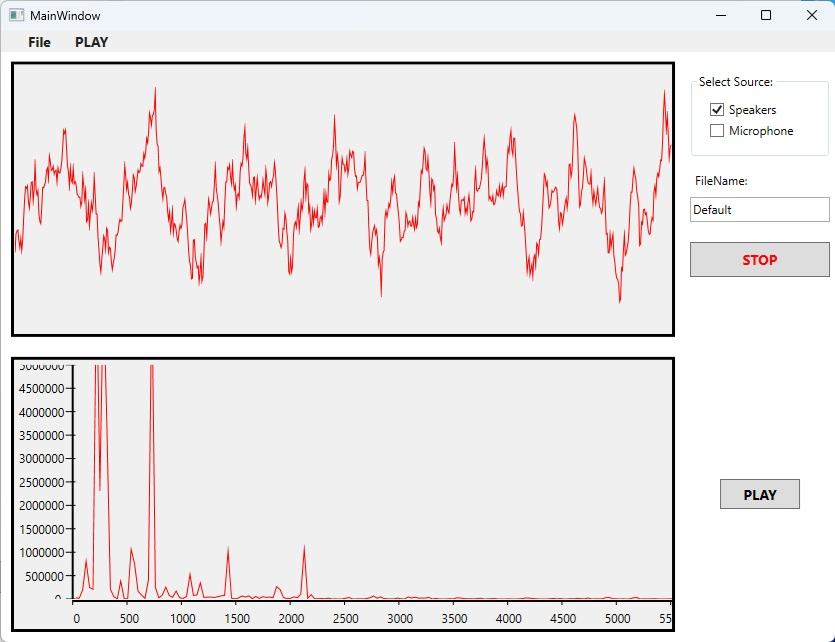
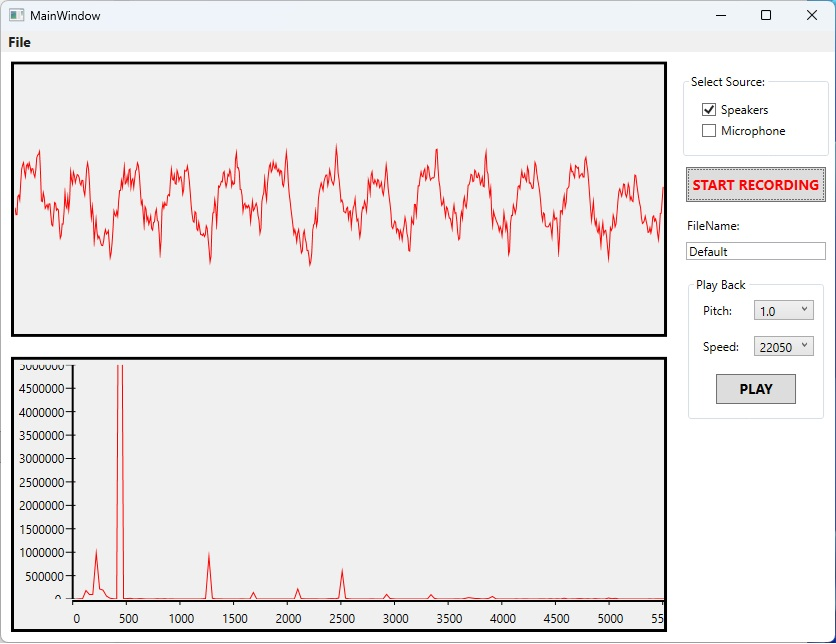
Updated Apps

diff --git a/Audio Spectrum/MainWindow.xaml b/Audio Spectrum/MainWindow.xaml
@@ -27,6 +27,8 @@
 
         <StackPanel Grid.Row="3" Orientation="Horizontal" HorizontalAlignment="Center">
             <Button Grid.Row="3" Margin="80,10,10,10" Width="80" FontSize="14" FontWeight="Bold" Name="btnPlay" Click="btnPlay_Click">START</Button>
+            <Label FontSize="12" VerticalContentAlignment="Center" Margin="100,10,10,10">Sensitivity</Label>
+            <Slider Margin="10" Width="150" Name="sldSensitivity" ValueChanged="sldSensitivity_ValueChanged" Minimum="1000000" Maximum="10000000" Value="5000000" VerticalAlignment="Center" IsDirectionReversed="True"></Slider>
         </StackPanel>
     </Grid>
 </Window>

diff --git a/Audio Spectrum/MainWindow.xaml.cs b/Audio Spectrum/MainWindow.xaml.cs
@@ -2,7 +2,6 @@
 using Microsoft.Win32;
 using NAudio.CoreAudioApi;
 using NAudio.Wave;
-using System.Diagnostics;
 using System.Windows;
 using System.Windows.Media;
 using System.Windows.Media.Imaging;
@@ -29,7 +28,7 @@ namespace Audio_Spectrum
         private byte[] my_Buffer;
         private double[] Ydata;
         private double[] FreqYdata;
-        private double Ymax = 4000000;
+        private double Ymax;
         private int Stride = 0;
         private byte[] pixelData;
         private List<Color> my_Colors;
@@ -57,9 +56,9 @@ namespace Audio_Spectrum
             pixelData = new byte[(int)(Stride * image1.Height)];
             //Get a color palette
             ColorPalette cpal = new ColorPalette(Environment.CurrentDirectory + "\\Thermal2.cpl");
-            my_Colors = cpal.GetColors(256);
-            BitmapPalette bpal = new BitmapPalette(my_Colors);
-            bitmap = new WriteableBitmap(W, H, 96, 96, PixelFormats.Bgr24, bpal);
+            my_Colors = cpal.GetColors(1024);
+            bitmap = new WriteableBitmap(W, H, 96, 96, PixelFormats.Bgr24, null);
+            Ymax = sldSensitivity.Value;
         }
 
         private void mnuOpen_Click(object sender, RoutedEventArgs e)
@@ -87,6 +86,8 @@ namespace Audio_Spectrum
             {
                 started = true;
                 btnPlay.Content = "STOP";
+                pixelData = new byte[(int)(Stride * image1.Height)];
+                bitmap = new WriteableBitmap(W, H, 96, 96, PixelFormats.Bgr24, null);
                 //Get the Default audio playback Device
                 MMDeviceEnumerator enumerator = new MMDeviceEnumerator();
                 IEnumerable<MMDevice> CaptureDevices = enumerator.EnumerateAudioEndPoints(DataFlow.Render, DeviceState.Active).ToArray();
@@ -127,9 +128,13 @@ namespace Audio_Spectrum
             else
             {
                 started = false;
-                btnPlay.Content = "START";
-                if (player != null) { player.Stop(); }
                 capture.StopRecording();
+                btnPlay.Content = "START";
+                if (player != null)
+                {
+                    player.Stop();
+                    player.Dispose();
+                }
             }
         }
 
@@ -144,6 +149,7 @@ namespace Audio_Spectrum
         //MaxBytes should be a whole fraction of the capture SampleRate.
         private void Capture_DataAvailable(object? sender, WaveInEventArgs e)
         {
+            if (!started) {return; }
             bufferedWaveProvider.AddSamples(e.Buffer, 0, e.BytesRecorded);
             while (bufferedWaveProvider.BufferedBytes > MaxBytes)
             {
@@ -209,7 +215,7 @@ namespace Audio_Spectrum
                 {
                     throw new NotSupportedException("Invalid Wave file format");
                 }
-                if (Ydata.Length > 0)
+                if (Ydata.Length > 0 && started)
                 {
                     //Calculate the Discreet Fourier Transform of both audio channels
                     FreqYdata = DFT.Process2double(Ydata);
@@ -223,7 +229,7 @@ namespace Audio_Spectrum
                             for (int I = 0; I < FreqYdata.Length; I++)
                             {
                                 pt = new Point(rectW * scanCount, H - (I + 1) * rectH);
-                                colorIndex = (int)(FreqYdata[I] / Ymax * 256);
+                                colorIndex = (int)(FreqYdata[I] / Ymax * 1024);
                                 if (colorIndex >= my_Colors.Count) { colorIndex = my_Colors.Count - 1;}
                                 SetPixelArea(bitmap, pt, rectW, rectH, my_Colors[colorIndex]);
                             }
@@ -249,9 +255,12 @@ namespace Audio_Spectrum
                             Int32Rect Intrect = new Int32Rect(0, 0, bitmap.PixelWidth - 1, bitmap.PixelHeight - 1);
                             bitmap.WritePixels(Intrect, pixelData, Stride, 0);
                             for (int I = 0; I < FreqYdata.Length; I++)
+                            //Set the Frequency amplitudes as a vertical line of color points on the right edge
                             {
                                 pt = new Point(rectW * scanCount, H - (I + 1) * rectH);
-                                SetPixelArea(bitmap, pt, rectW, rectH, my_Colors[(int)(FreqYdata[I] * my_Colors.Count / Ymax) % 256]);
+                                colorIndex = (int)(FreqYdata[I] / Ymax * 1024);
+                                if (colorIndex >= my_Colors.Count) { colorIndex = my_Colors.Count - 1; }
+                                SetPixelArea(bitmap, pt, rectW, rectH, my_Colors[colorIndex]);
                             }
                         }
                         image1.Source = bitmap;
@@ -278,17 +287,34 @@ namespace Audio_Spectrum
             WB.WritePixels(new Int32Rect((int)Pos.X, (int)Pos.Y, w, h), PixelData, 3 * w, 0);
         }
 
+        private void sldSensitivity_ValueChanged(object sender, RoutedPropertyChangedEventArgs<double> e)
+        {
+            Ymax = sldSensitivity.Value;
+        }
+
         private void Player_PlaybackStopped(object? sender, StoppedEventArgs e)
         {
-            if (capture != null) 
-            { 
-                capture.StopRecording(); 
+            started = false;
+            btnPlay.Content = "START";
+            if (capture != null)
+            {
+                capture.StopRecording();
             }
-            capture.Dispose();
-            volumeStream.Dispose();
-            mainOutputStream.Dispose();
-            player.Dispose();
-            Debug.Print("Player ended.");
+            if (volumeStream != null)
+            {
+                volumeStream.Close();
+                volumeStream.Dispose();
+            }
+            if (mainOutputStream != null)
+            {
+                mainOutputStream.Close();
+                mainOutputStream.Dispose();
+            }
+            if (player != null)
+            {
+                player.Stop();
+                player.Dispose();
+            }
         }
     }
 }
